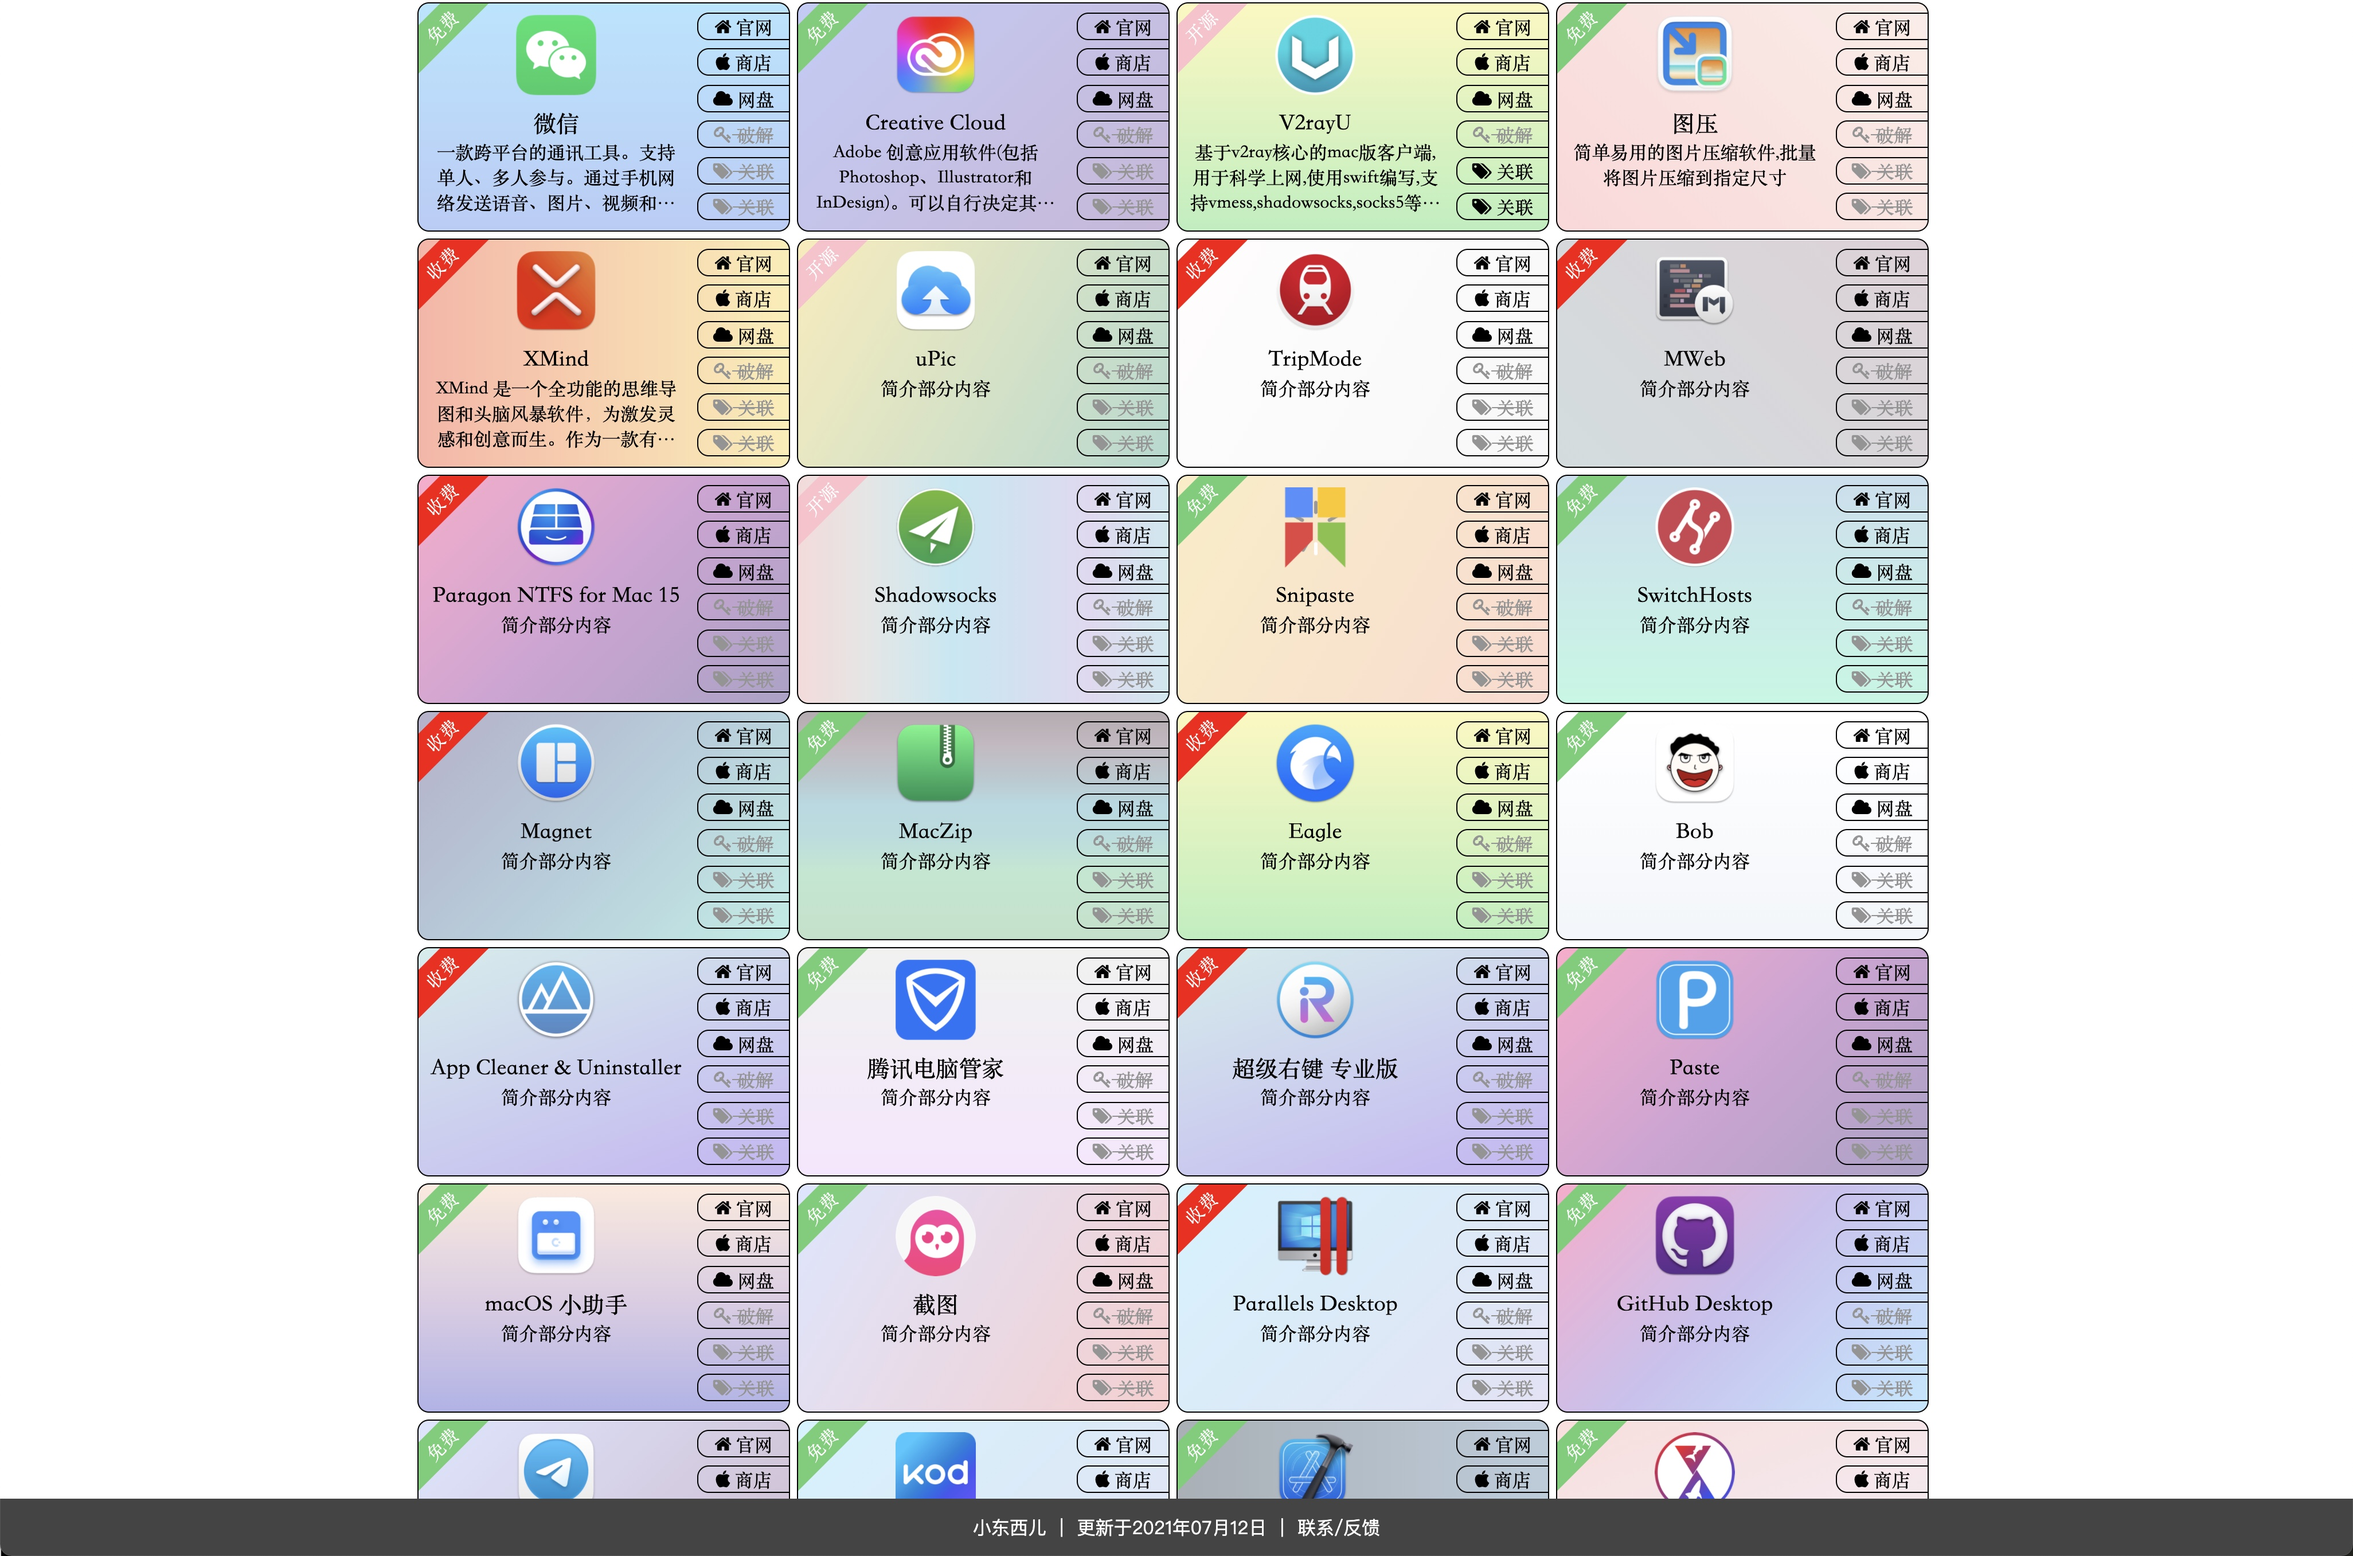
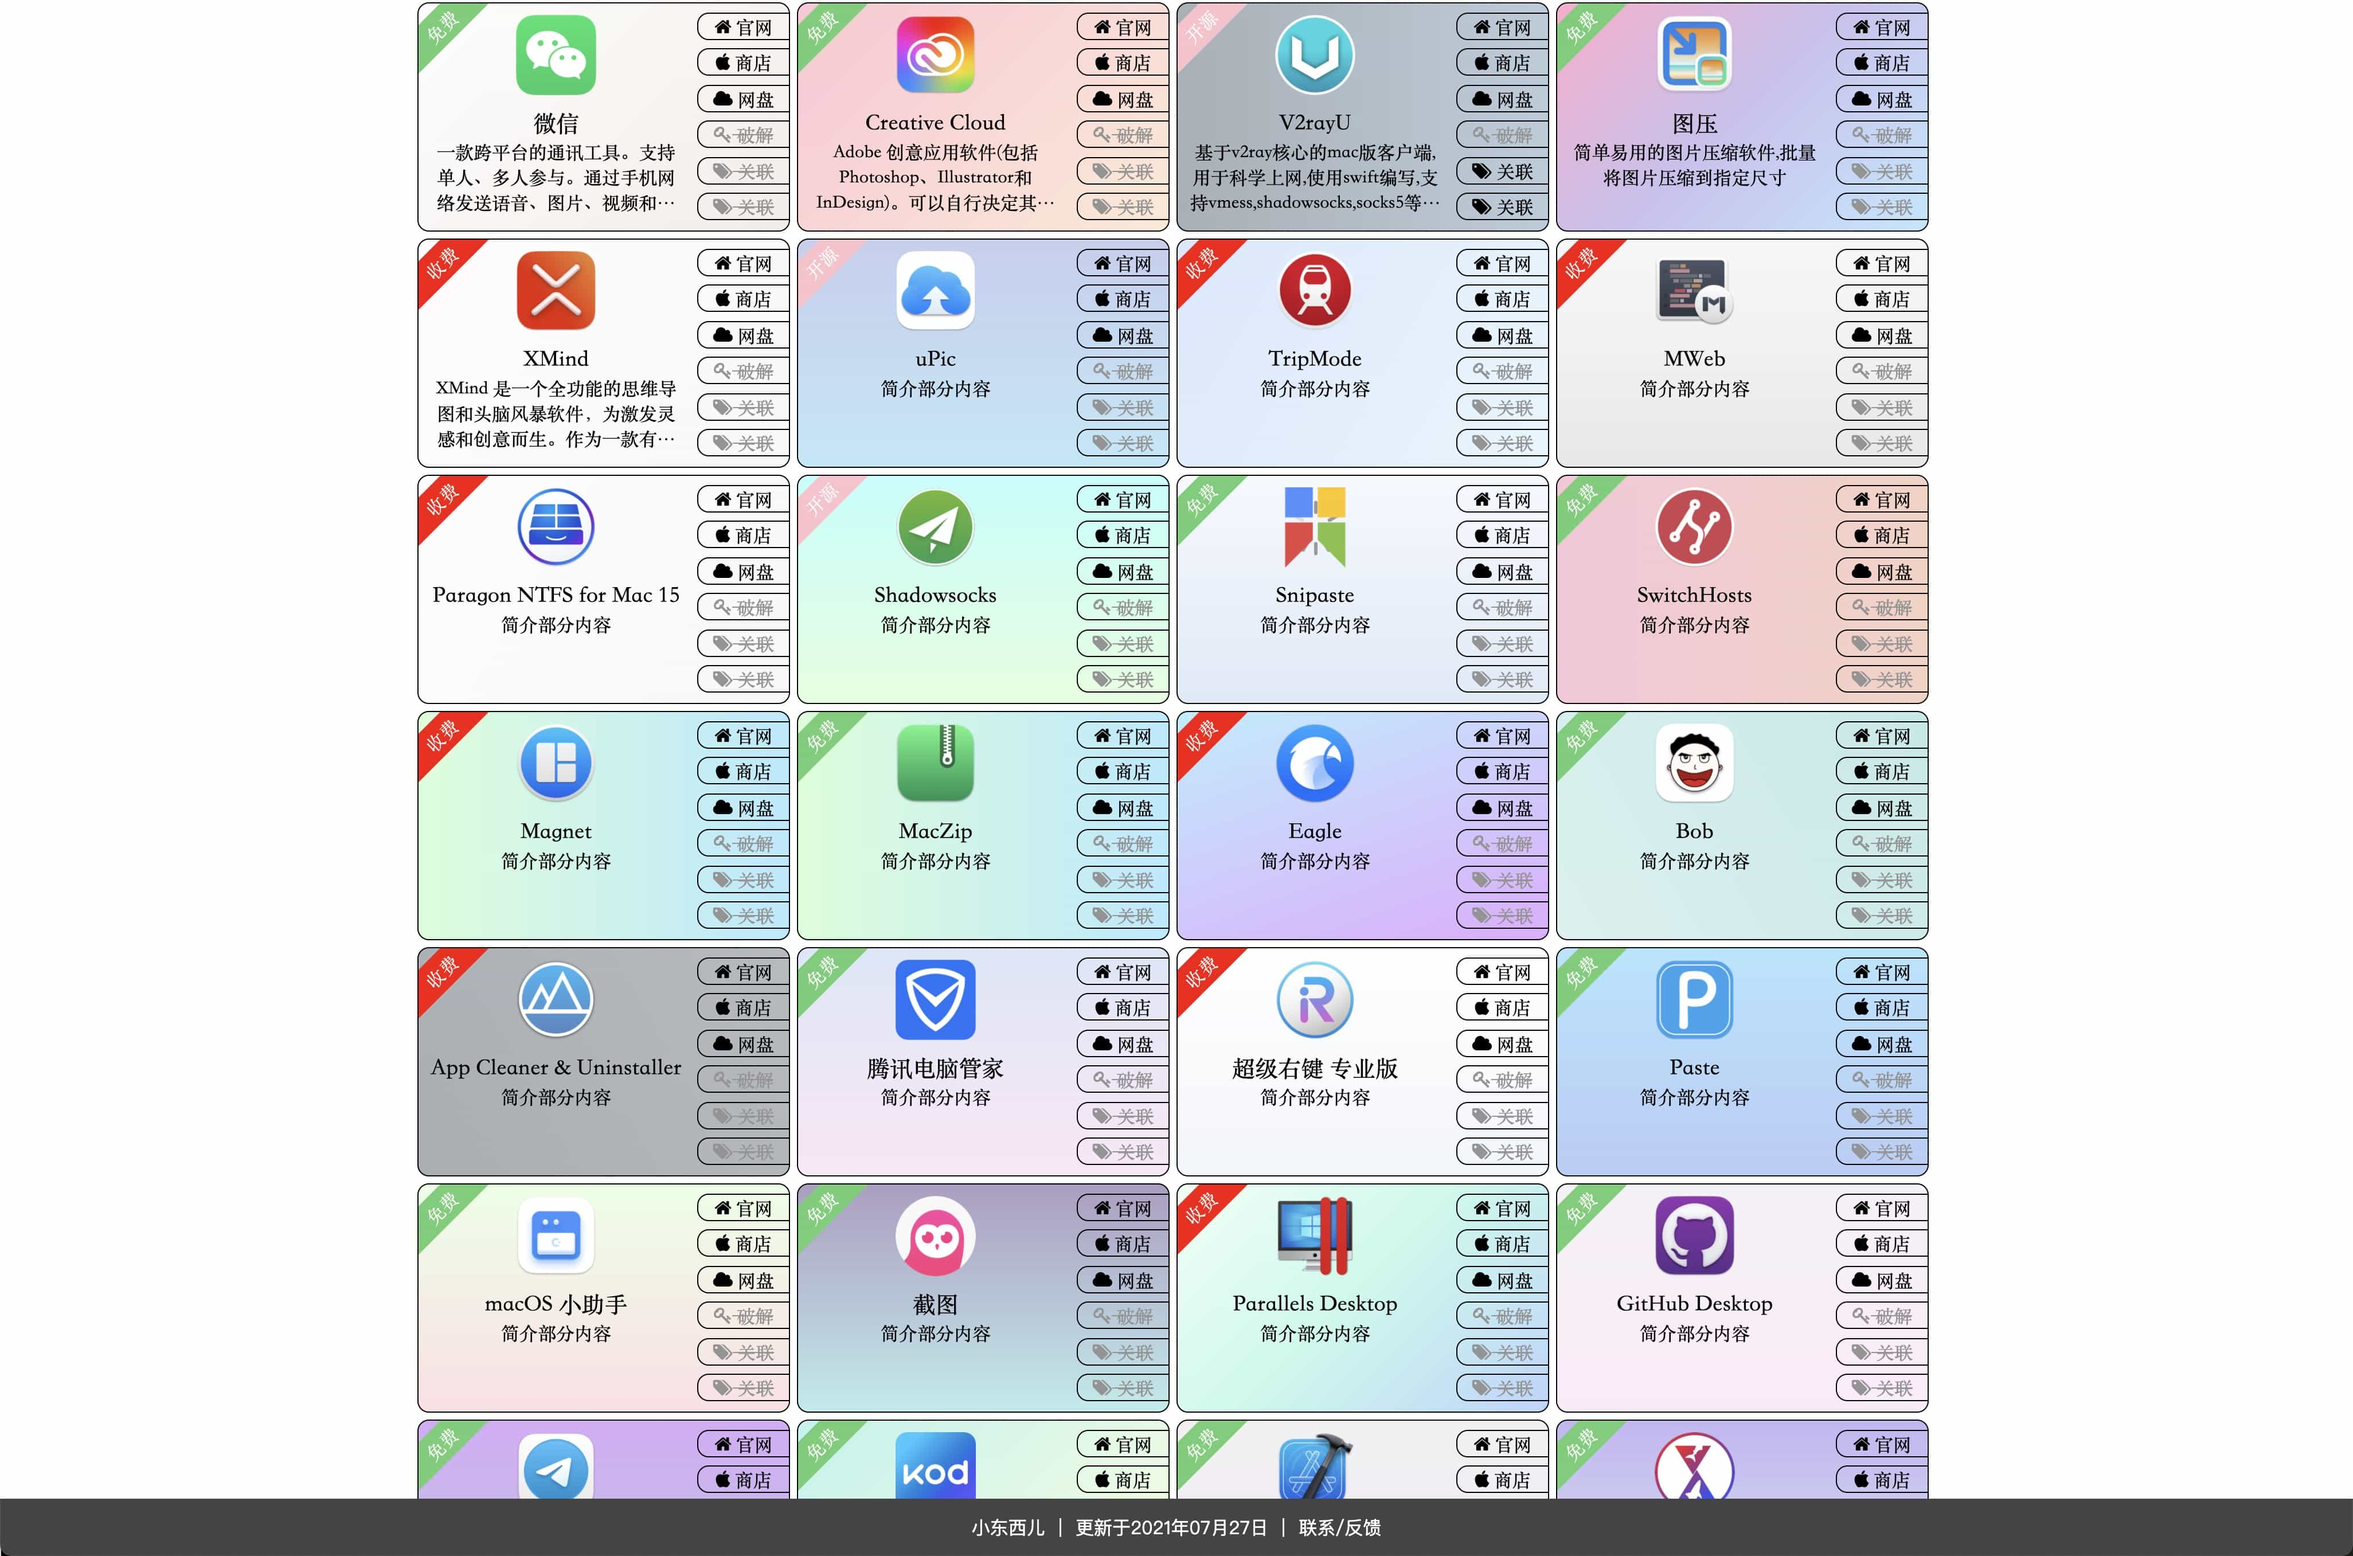
v1.0.0

diff --git a/index.html b/index.html
@@ -1,6 +1,6 @@
 <!--
  * @Date: 2021-07-12 10:25:07
- * @LastEditTime: 2021-07-27 11:42:44
+ * @LastEditTime: 2021-07-27 13:35:58
  * @Author: WangYongJie
  * @Work-email: wangyongjie2@gome.com.cn
  * @Private-email: admin@xiaodongxier.com
@@ -832,7 +832,7 @@
         </ul>
     </div>
     <footer class="footer">
-        <a href="http://xiaodongxier.com" target="_blank">小东西儿</a> ｜ 更新于2021年07月12日 ｜ <a href="mailto:admin@xiaodongxier.com?subject=关于常用软件导航页面问题的反馈">联系/反馈</a>
+        <a href="http://xiaodongxier.com" target="_blank">小东西儿</a> ｜ 更新于2021年07月27日 ｜ <a href="mailto:admin@xiaodongxier.com?subject=关于常用软件导航页面问题的反馈">联系/反馈</a>
     </footer>
     <script>
         $(function() {
